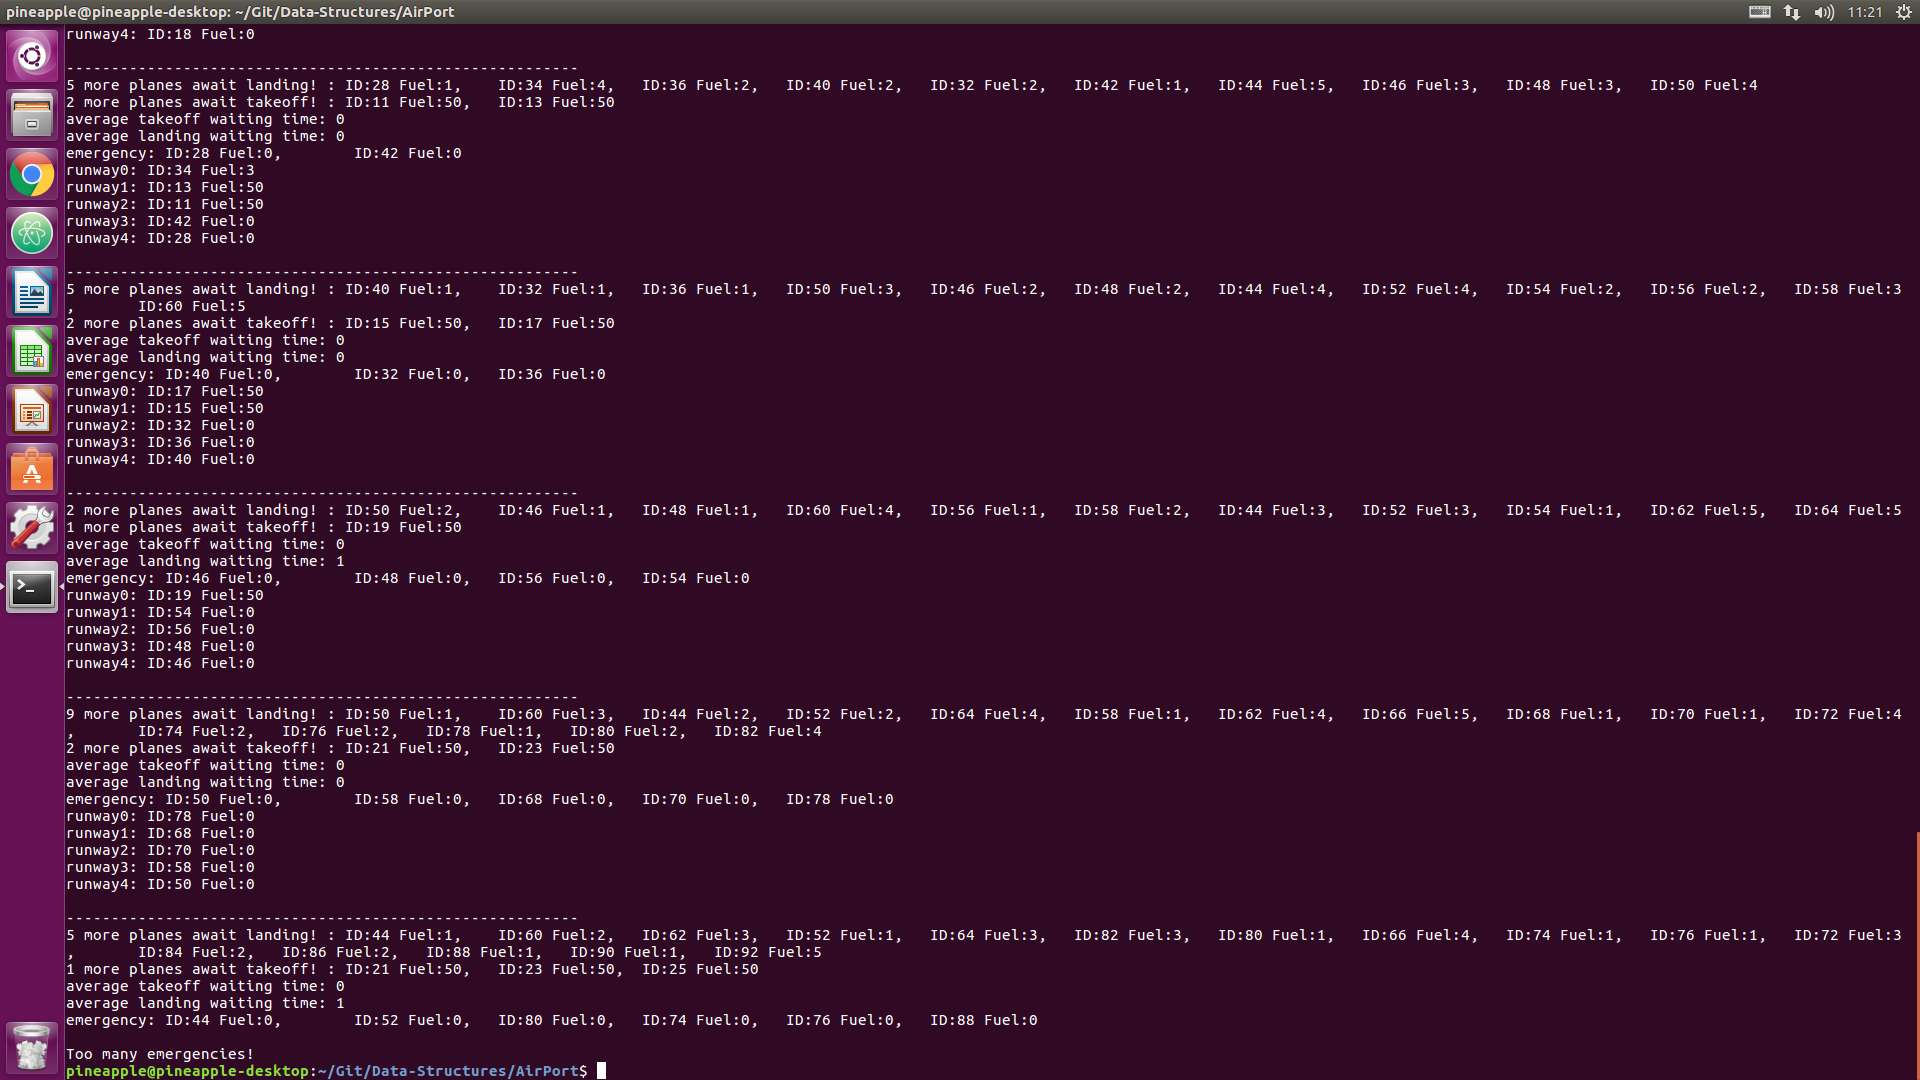
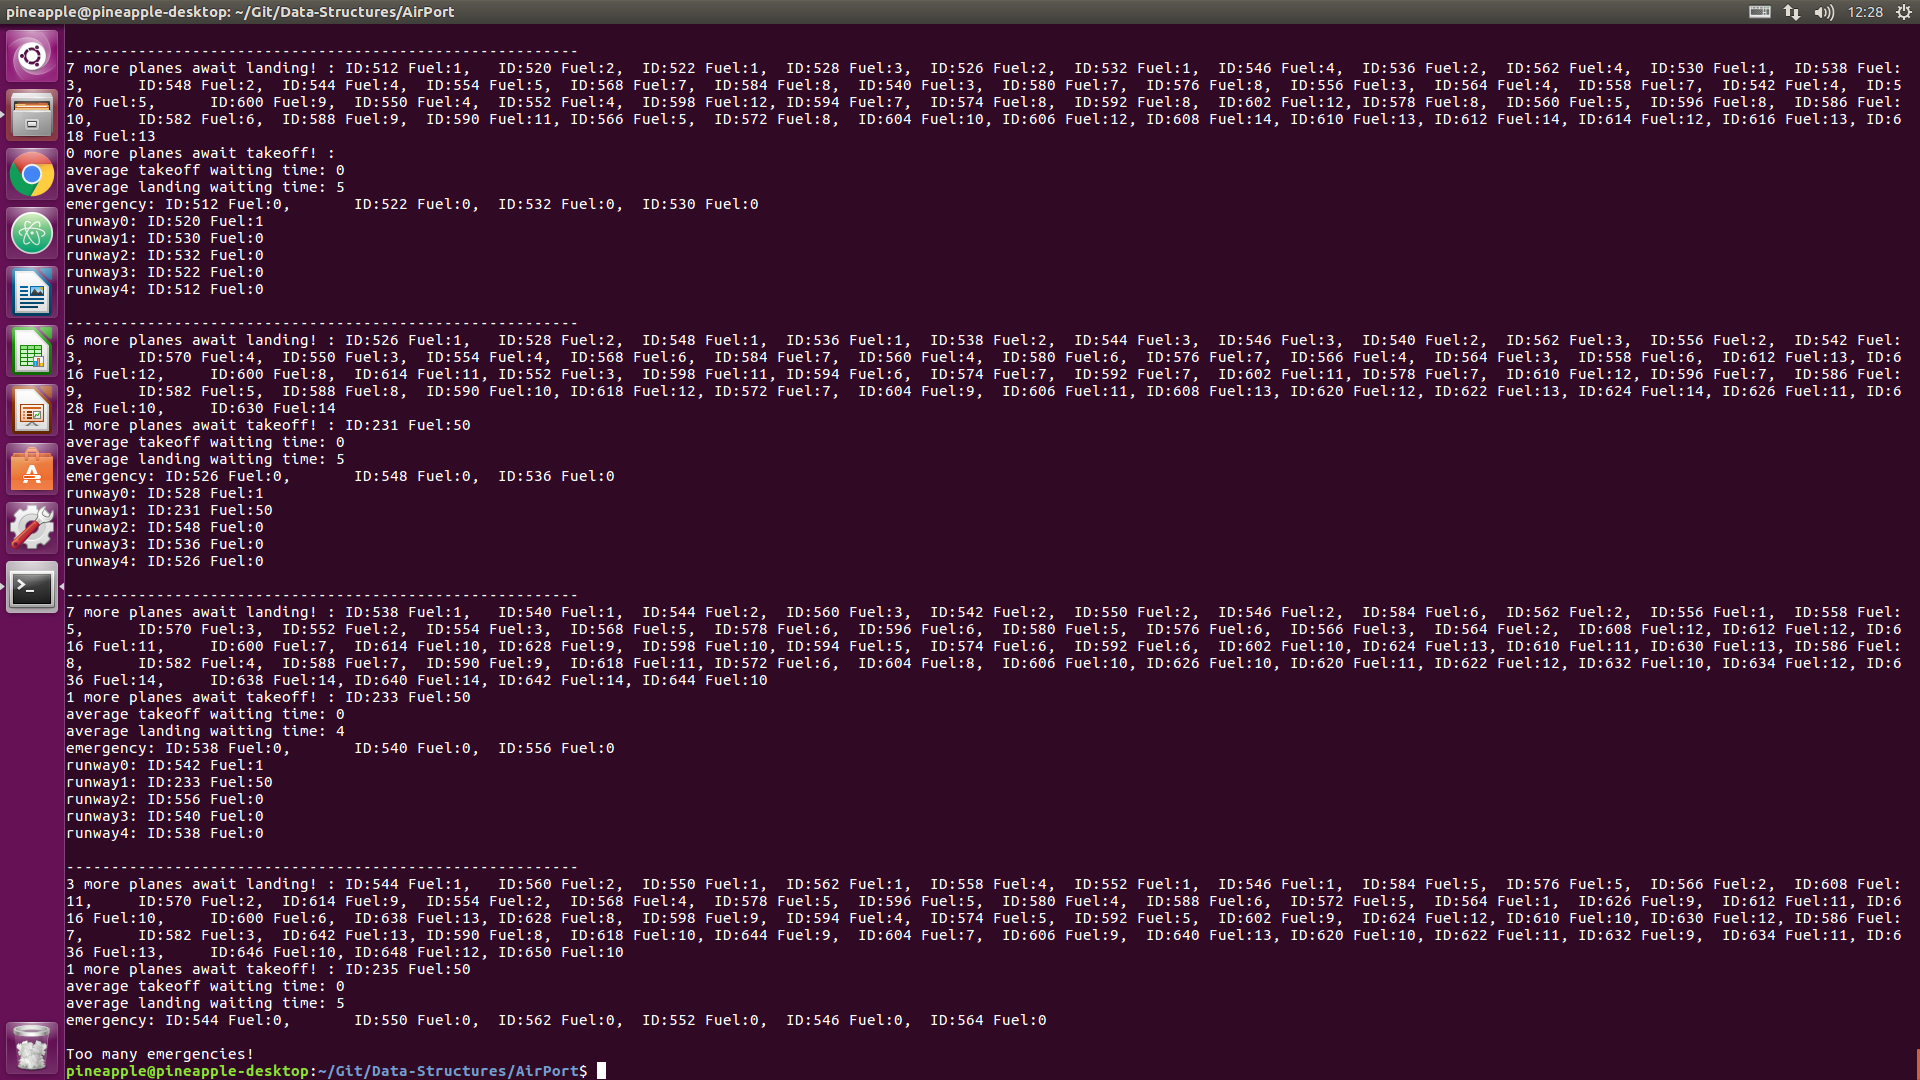
change lambda4.png

diff --git a/AirPort/airport.c b/AirPort/airport.c
@@ -54,7 +54,7 @@ void addLanding(PriorityQueue H) {
 		CDF += poisson(k);
 		if(p<CDF) {
 			for(i=0;i<k;i++) {
-				Insert(createCell(evenID, rand()%5+1), H);
+				Insert(createCell(evenID, rand()%5+10), H);
 				evenID += 2;
 			}
 		break;
